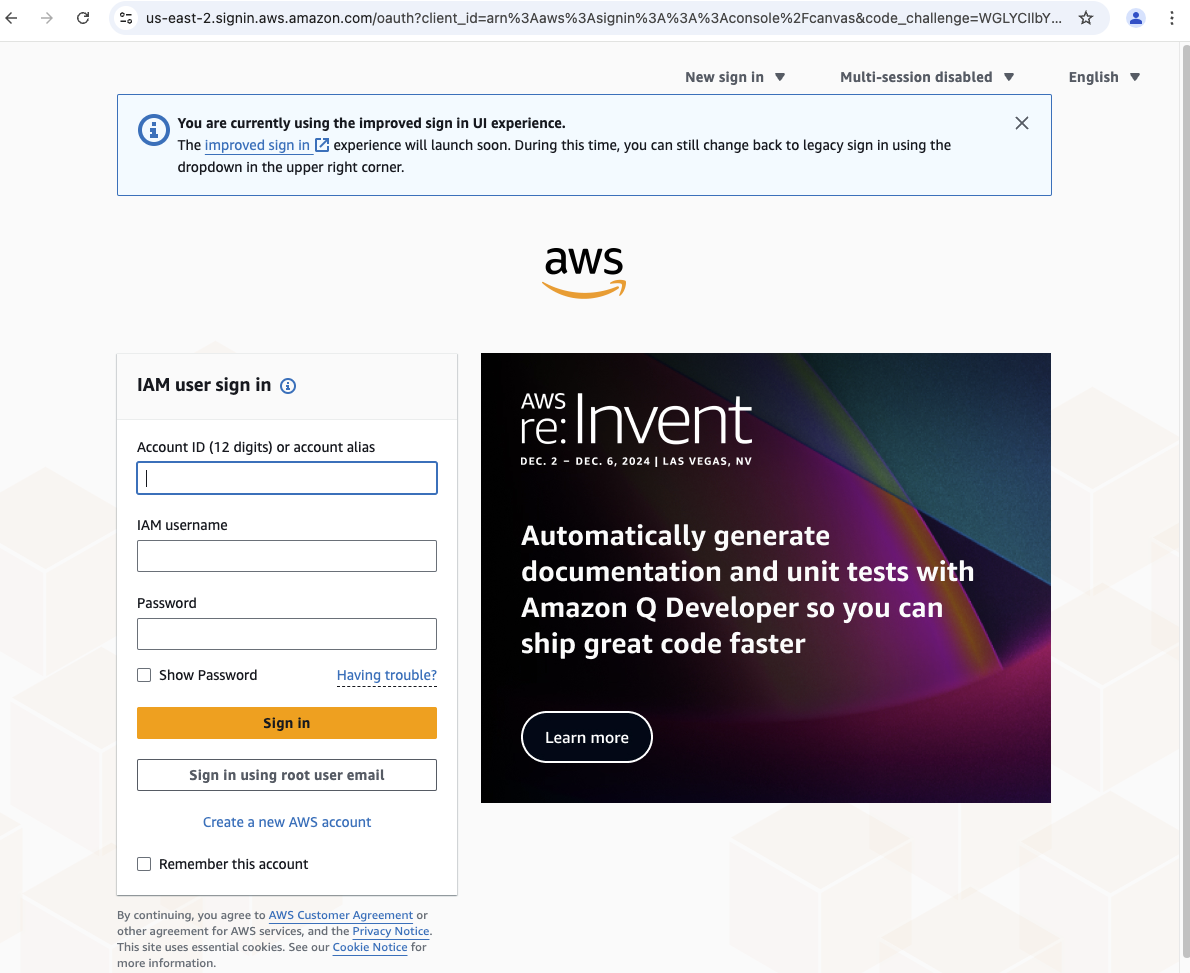
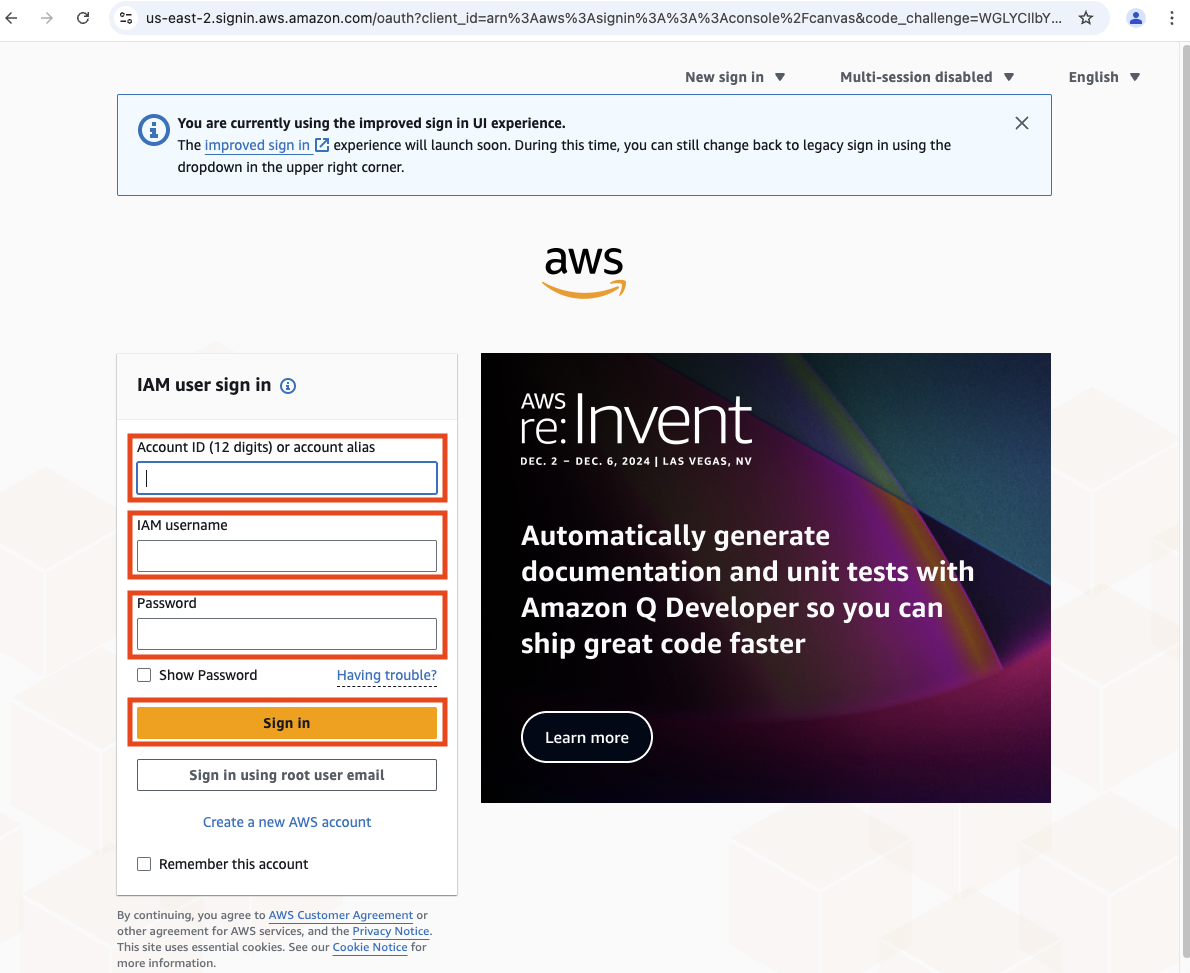
fix: minor text updates and image changes

Changed region(s): [[0.0933, 0.4317, 0.4042, 0.6783], [0.0933, 0.7091, 0.3731, 0.7708], [0.3731, 0.4625, 0.4042, 0.4933]]

diff --git a/content/01Cloud101/qwiklabs.md b/content/01Cloud101/qwiklabs.md
@@ -1,5 +1,7 @@
 ## Welcome to Qwiklabs
-For Lab 1 you will use Qwiklabs to provision a AWS.  Once you have access to the AWS accont you can close Qwiklabs.
+In this lab you will create a new AWS Cloud account and gain access to the web console for you new cloud account.
+
+Once you have loged into to your new AWS Cloud accont you can close Qwiklabs.
 
 ## Create a AWS Account
 
@@ -20,6 +22,6 @@ Copy/paste the `Username`, `Password` and click `Sign In`.
 ![](https://fortinetcloudcse.github.io/Public-Cloud-104-CNAPP/01cloud101/img/aws-login.png)
 
 ## Logged into AWS, Close Qwiklabs
-If you are seeing the page below, feel free to close Qwiklabs!
+If you are seeing a page like the image below, feel free to close Qwiklabs and return to the Xperts course to continue your work.
 
 ![](https://fortinetcloudcse.github.io/Public-Cloud-104-CNAPP/01cloud101/img/aws-account-user-logged-in.png)

diff --git a/content/01Cloud101/aws-basics.md b/content/01Cloud101/aws-basics.md
@@ -15,11 +15,11 @@ To achieve your goal you will use the public cloud to create resources, download
 
 Good luck!
 ## Log into Qwiklabs
-Your first taks will be to create an AWS cloud account using Qwicklabs website.
+Your first task will be to create an new AWS cloud account using Qwiklabs.
 
-[Fortinet's Qwiklabs](https://fortinet.qwiklabs.com/users/sign_in)
+[Fortinet's Qwiklabs](https://fortinet.qwiklabs.com/classrooms/90)
 
-Use the username/password provided by your lab teachers.
+Use the email/password provided by your lab teachers to log in to Qwiklabs.
 
 ![](../01cloud101/img/qwiklabs-login.png)
 ## Select the course
